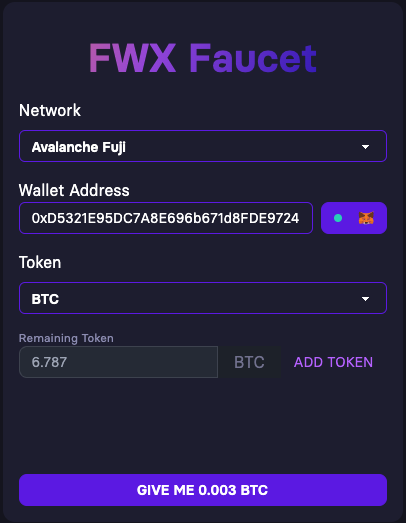
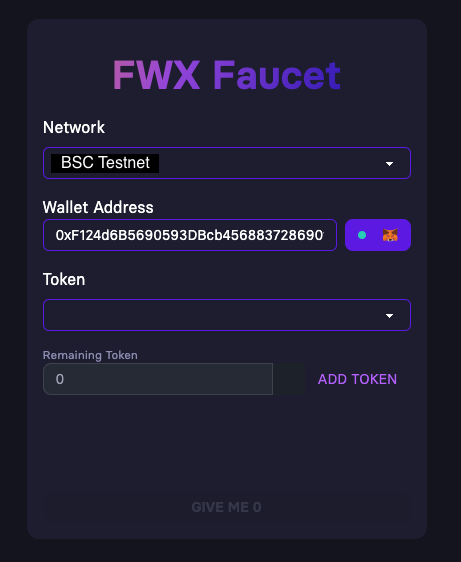
Implement BSC Testnet chain and update token addresses + give hint

diff --git a/abi/abi.ts b/abi/abi.ts
@@ -1,0 +1,269 @@
+export const abi = [
+  {
+    inputs: [],
+    stateMutability: "nonpayable",
+    type: "constructor",
+  },
+  {
+    anonymous: false,
+    inputs: [
+      {
+        indexed: true,
+        internalType: "address",
+        name: "to",
+        type: "address",
+      },
+      {
+        indexed: false,
+        internalType: "address",
+        name: "tokenAddress",
+        type: "address",
+      },
+      {
+        indexed: false,
+        internalType: "uint256",
+        name: "value",
+        type: "uint256",
+      },
+      {
+        indexed: false,
+        internalType: "uint256",
+        name: "timestamp",
+        type: "uint256",
+      },
+    ],
+    name: "FaucetTransfer",
+    type: "event",
+  },
+  {
+    anonymous: false,
+    inputs: [
+      {
+        indexed: true,
+        internalType: "address",
+        name: "previousOwner",
+        type: "address",
+      },
+      {
+        indexed: true,
+        internalType: "address",
+        name: "newOwner",
+        type: "address",
+      },
+    ],
+    name: "OwnershipTransferred",
+    type: "event",
+  },
+  {
+    inputs: [],
+    name: "cooldown",
+    outputs: [
+      {
+        internalType: "uint256",
+        name: "",
+        type: "uint256",
+      },
+    ],
+    stateMutability: "view",
+    type: "function",
+  },
+  {
+    inputs: [
+      {
+        internalType: "address",
+        name: "",
+        type: "address",
+      },
+    ],
+    name: "faucetsAmount",
+    outputs: [
+      {
+        internalType: "uint256",
+        name: "",
+        type: "uint256",
+      },
+    ],
+    stateMutability: "view",
+    type: "function",
+  },
+  {
+    inputs: [],
+    name: "getAllBalance",
+    outputs: [
+      {
+        internalType: "address[]",
+        name: "",
+        type: "address[]",
+      },
+      {
+        internalType: "uint256[]",
+        name: "",
+        type: "uint256[]",
+      },
+    ],
+    stateMutability: "view",
+    type: "function",
+  },
+  {
+    inputs: [
+      {
+        internalType: "address",
+        name: "_tokenAddress",
+        type: "address",
+      },
+    ],
+    name: "getTokenBalance",
+    outputs: [
+      {
+        internalType: "uint256",
+        name: "",
+        type: "uint256",
+      },
+    ],
+    stateMutability: "view",
+    type: "function",
+  },
+  {
+    inputs: [
+      {
+        internalType: "address",
+        name: "",
+        type: "address",
+      },
+    ],
+    name: "isTokensActive",
+    outputs: [
+      {
+        internalType: "bool",
+        name: "",
+        type: "bool",
+      },
+    ],
+    stateMutability: "view",
+    type: "function",
+  },
+  {
+    inputs: [],
+    name: "owner",
+    outputs: [
+      {
+        internalType: "address",
+        name: "",
+        type: "address",
+      },
+    ],
+    stateMutability: "view",
+    type: "function",
+  },
+  {
+    inputs: [],
+    name: "renounceOwnership",
+    outputs: [],
+    stateMutability: "nonpayable",
+    type: "function",
+  },
+  {
+    inputs: [
+      {
+        internalType: "address",
+        name: "_tokenAddress",
+        type: "address",
+      },
+    ],
+    name: "requestToken",
+    outputs: [],
+    stateMutability: "nonpayable",
+    type: "function",
+  },
+  {
+    inputs: [
+      {
+        internalType: "uint256",
+        name: "_cooldown",
+        type: "uint256",
+      },
+    ],
+    name: "setCooldown",
+    outputs: [],
+    stateMutability: "nonpayable",
+    type: "function",
+  },
+  {
+    inputs: [
+      {
+        internalType: "address",
+        name: "_tokenAddress",
+        type: "address",
+      },
+      {
+        internalType: "uint256",
+        name: "_amount",
+        type: "uint256",
+      },
+    ],
+    name: "setTokenRequestPerRound",
+    outputs: [],
+    stateMutability: "nonpayable",
+    type: "function",
+  },
+  {
+    inputs: [
+      {
+        internalType: "uint256",
+        name: "",
+        type: "uint256",
+      },
+    ],
+    name: "tokensAddress",
+    outputs: [
+      {
+        internalType: "address",
+        name: "",
+        type: "address",
+      },
+    ],
+    stateMutability: "view",
+    type: "function",
+  },
+  {
+    inputs: [
+      {
+        internalType: "address",
+        name: "newOwner",
+        type: "address",
+      },
+    ],
+    name: "transferOwnership",
+    outputs: [],
+    stateMutability: "nonpayable",
+    type: "function",
+  },
+  {
+    inputs: [
+      {
+        internalType: "address",
+        name: "",
+        type: "address",
+      },
+      {
+        internalType: "address",
+        name: "",
+        type: "address",
+      },
+    ],
+    name: "usersNextCooldown",
+    outputs: [
+      {
+        internalType: "uint256",
+        name: "",
+        type: "uint256",
+      },
+    ],
+    stateMutability: "view",
+    type: "function",
+  },
+  {
+    stateMutability: "payable",
+    type: "receive",
+  },
+];

diff --git a/addresses.ts b/addresses.ts
@@ -1,6 +1,9 @@
-export const FAUCET_CONTRACT_ADDRESS = "0x0";
+export const FAUCET_CONTRACT_ADDRESS =
+  "<Please use contract address provided in email>";
 
-export const REQUIRED_TOKEN_CONTRACT_ADDRESSES = [
+export const REQUIRED_TO_IMPLEMENT_FAUCET_TOKEN_ADDRESSES = [
   "0xf0dEDda1ecbEf742AA3DaE9c8D35E7fCb7fC3Ef6",
   "0x4c30FBf082BaD0938e33802651058Ee6aab8bC9e",
 ];
+
+export const BSC_TESTNET_CHAIN_ID = 97;

diff --git a/README.md b/README.md
@@ -17,6 +17,8 @@ Token Selection and Faucet Functionality
 
 The website must allow users to select from multiple tokens available in the faucet and **<ins>request the selected tokens to be sent to their wallets.</ins>**
 
+**Implment on BSC Testnet chain**
+
 **Additional Features**
 
 Chain and Token Addition:
@@ -45,11 +47,19 @@ Any additional documentation or comments within the code to elucidate your appro
 ## Resources Provided
 - Website Design example
   
-  ![example faucet](image.png)
+  ![Example UI](image.png)
 
 - Application Binary Interface (ABI) of the Multi-Token Faucet Smart Contract ( ABI Directory )
 - Address of the Multi-Token Faucet Smart Contract ( addresses.ts )
+  FAUCET_CONTRACT_ADDRESS is address which use for calling faucet function contract
 - Addresses of the Token Contracts ( addresses.ts )
+  REQUIRED_TO_IMPLEMENT_FAUCET_TOKEN_ADDRESSES is addresses that you must implement to request  token to complete key feature 
+  
+  (hint1: You can retrieve token info such as name from address)
+  
+  (hint2: There are other token in contract that you can send request to get token)
 
-We are eager to see your creative solutions and how you tackle the complexities of interacting with a multi-token faucet. For questions or further clarification, please contact us at <narawit@fwx.finance>.
+  (hint3: Reading field "name" in abi.ts can give you useful information)
+
+We are eager to see your creative solutions and how you tackle the complexities of interacting with a multi-token faucet. For questions or further clarification, please contact us at <siwapol@fwx.finance>.
 
